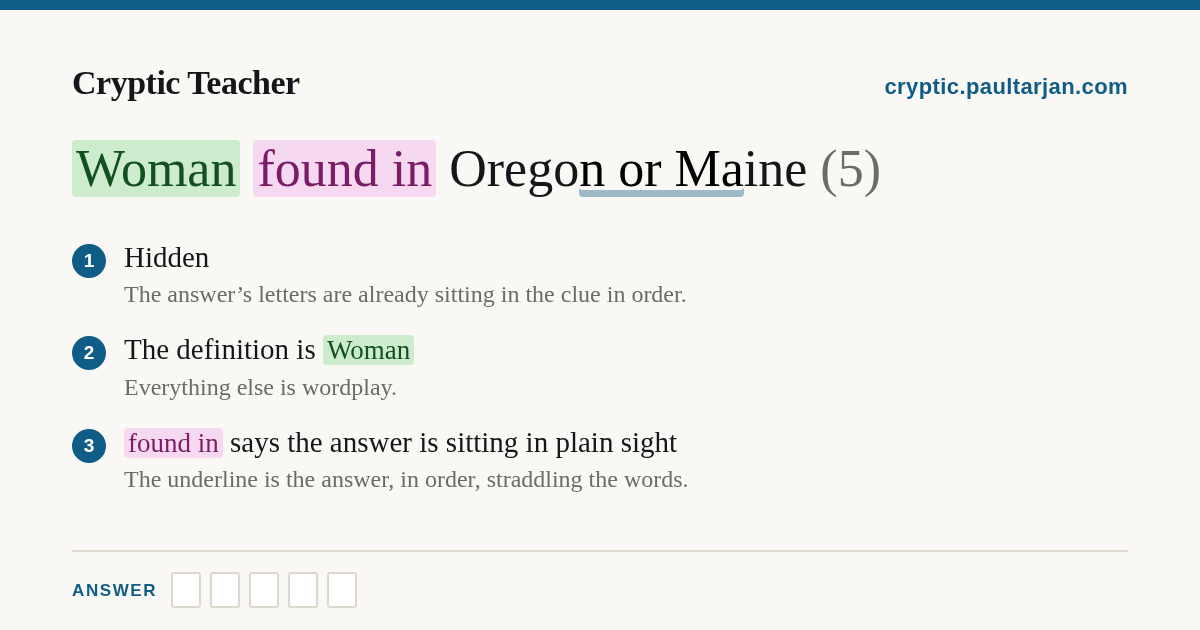
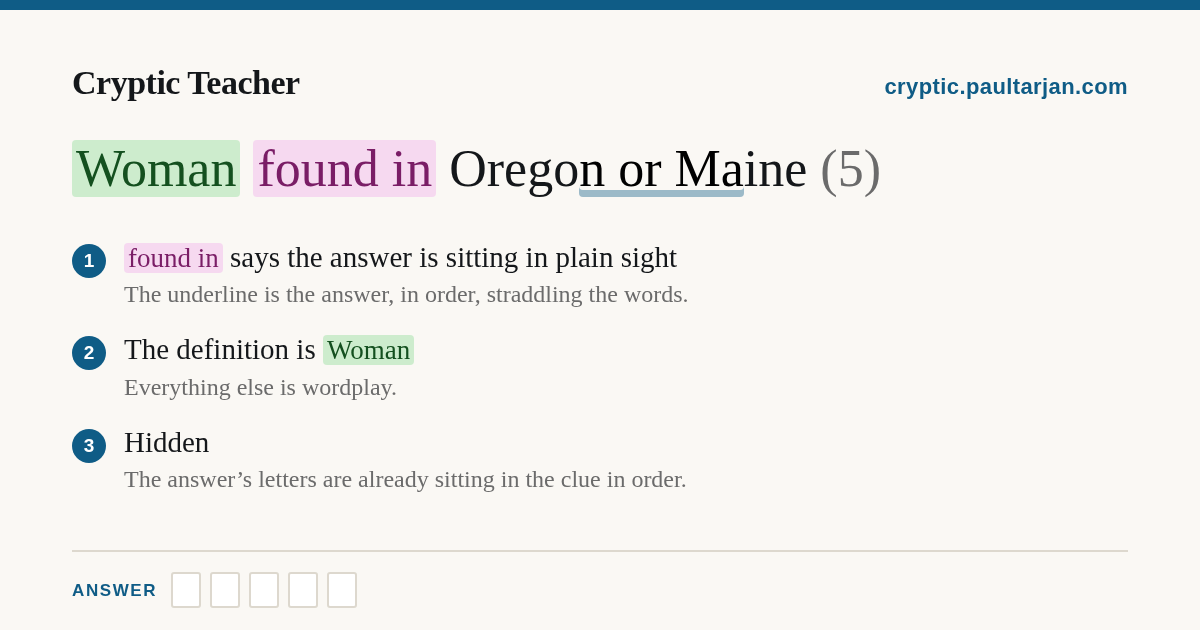
Draw the social cards' rungs in the app's ladder order
The cards read family, definition, indicator; the app's ladder has since
become indicators, definition, type, blocks, walkthrough. rungs_for now
tags each card rung with the app rung it stands for and sorts by
app_tables.ladder(), which reads LABELS' key order out of app.js, so a
reordered ladder reorders the cards with no edit here. og.png redrawn;
the per-puzzle cards go stale in CI because the manifest salt hashes
this script.

Changed region(s): [[0.0925, 0.3619, 0.5858, 0.4825], [0.0925, 0.6635, 0.5858, 0.7841]]

diff --git a/tools/og_card.html b/tools/og_card.html
@@ -94,7 +94,7 @@
        the generator checks it against the clue rather than trusting a human. -->
   <!--CARD-START quiptic-1393 3-down-->
   <div class="clue"><mark class="def">Woman</mark> <mark class="ind">found in</mark> Orego<mark class="hit">n or Ma</mark>ine <span class="enum">(5)</span></div>
-  <ol class="rungs"><li><span class="n">1</span><span class="t"><b>Hidden</b><span class="sub">The answer’s letters are already sitting in the clue in order.</span></span></li><li><span class="n">2</span><span class="t"><b>The definition is <mark class="def">Woman</mark></b><span class="sub">Everything else is wordplay.</span></span></li><li><span class="n">3</span><span class="t"><b><mark class="ind">found in</mark> says the answer is sitting in plain sight</b><span class="sub">The underline is the answer, in order, straddling the words.</span></span></li></ol>
+  <ol class="rungs"><li><span class="n">1</span><span class="t"><b><mark class="ind">found in</mark> says the answer is sitting in plain sight</b><span class="sub">The underline is the answer, in order, straddling the words.</span></span></li><li><span class="n">2</span><span class="t"><b>The definition is <mark class="def">Woman</mark></b><span class="sub">Everything else is wordplay.</span></span></li><li><span class="n">3</span><span class="t"><b>Hidden</b><span class="sub">The answer’s letters are already sitting in the clue in order.</span></span></li></ol>
   <div class="held"><span class="lbl">Answer</span><span class="dots"><span class="dot"></span><span class="dot"></span><span class="dot"></span><span class="dot"></span><span class="dot"></span></span></div>
   <!--CARD-END-->
 </body>

diff --git a/tools/make_og_card.py b/tools/make_og_card.py
@@ -316,54 +316,57 @@ def indicator_gloss(ann, ind, family):
     return head
 
 
+# The order the app numbers its rungs, read from app.js's LABELS. The card sorts
+# its rungs by this, so a reordered ladder reorders every card with no edit here.
+LADDER = [key for key, _ in app_tables.ladder()]
+
+
 def rungs_for(p):
-    """Three rungs, close to the app's words but in the card's own order.
+    """Three rungs, close to the app's words and in the app's order.
 
     Trimmed, because a card is read in a thumbnail — but never rephrased into a
-    claim the app doesn't make, and never carrying the answer.
-
-    Family first, then the definition, then the indicator: a card is read by
-    somebody who has not opened the clue and is not climbing anything, so it
-    opens by saying what kind of thing they are looking at. The app's ladder
-    starts from the other end, because there the solver is being asked to do
-    the work rather than shown what the work is.
+    claim the app doesn't make, and never carrying the answer. Each rung is
+    tagged with the app rung it stands for and the list is sorted by LADDER, so
+    the card climbs the same ladder the app does.
     """
     ann = p["ann"]
     label, blurb, _ = p["family"]
-    out = [(html.escape(label), html.escape(first_sentence(blurb)))]
-    out.append((f'The definition is <mark class="def">'
+    out = [("type", html.escape(label), html.escape(first_sentence(blurb)))]
+    out.append(("definition",
+                f'The definition is <mark class="def">'
                 f'{html.escape(ann["definition"])}</mark>',
                 "Everything else is wordplay."))
     gloss = (indicator_gloss(ann, p["indicator"], p["family"])
              if p["indicator"] else None)
     if p["hidden"] and p["indicator"]:
-        out.append((gloss or
+        out.append(("indicators", gloss or
                     (f'<mark class="ind">{html.escape(p["indicator"])}</mark> '
                      "says it is hidden here"),
                     "The underline is the answer, in order, straddling the words."))
     elif p["fodder"]:
         # Name the indicator, don't just paint it. The card marks it pink in the
         # clue either way, and a pink word the rungs never mention reads as an
-        # unexplained claim — on 30,079 it was enough to make me doubt a correct
-        # annotation, when the actual answer was that the obvious-looking
-        # candidate was inside the fodder and this word was the real one.
+        # unexplained claim.
         n = len(re.sub(r"[^A-Za-z]", "", p["fodder"]))
+        key = "blocks"
         head = f'Shuffle <span class="fodder">{html.escape(p["fodder"])}</span>'
         if p["indicator"]:
+            key = "indicators"
             head = (f'<mark class="ind">{html.escape(p["indicator"])}</mark> '
                     f'says to shuffle <span class="fodder">'
                     f'{html.escape(p["fodder"])}</span>')
-        out.append((head,
+        out.append((key, head,
                     f"{n} letters, and the enumeration says where they land."))
     elif p["indicator"]:
-        out.append((gloss or
+        out.append(("indicators", gloss or
                     (f'The instruction is <mark class="ind">'
                      f'{html.escape(p["indicator"])}</mark>'),
                     "It tells you what to do with the rest."))
     else:
-        out.append(("The answer is hiding in the clue itself",
+        out.append(("blocks", "The answer is hiding in the clue itself",
                     "The underline is where its letters sit, in order."))
-    return out
+    out.sort(key=lambda r: LADDER.index(r[0]))
+    return [(head, tail) for _, head, tail in out]
 
 
 def check_no_answer(clue_html, prose_html, answer):
